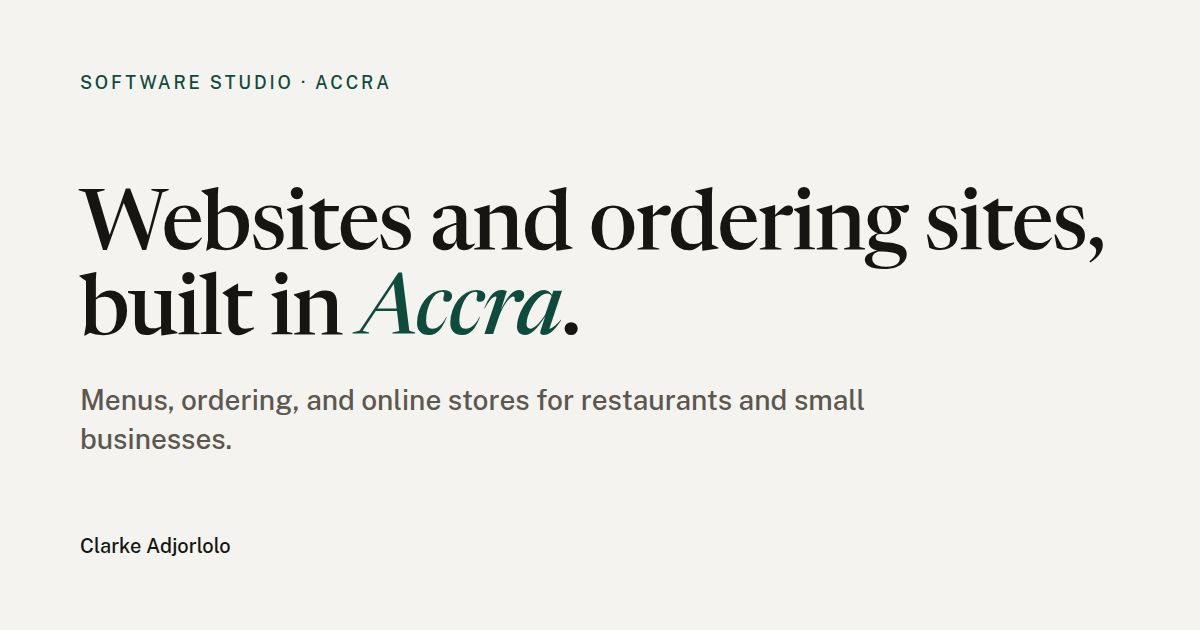
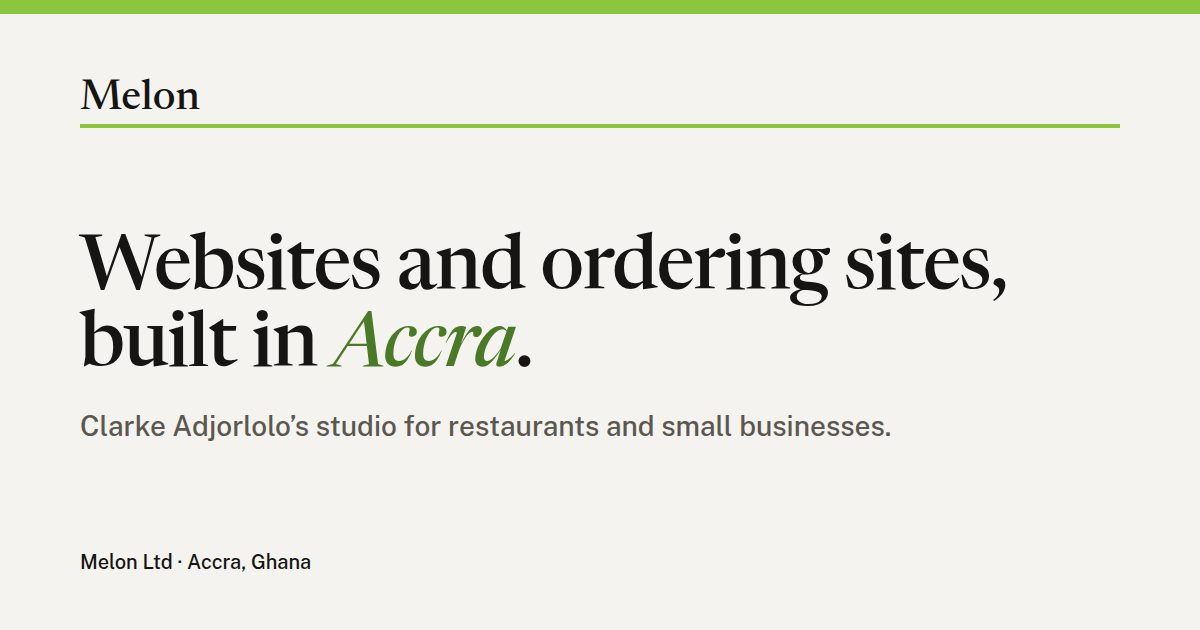
Rename the studio to Melon and use the lime theme.
The brand name stays one field in site.ts. Copyright uses Melon Ltd. Buttons are lime with dark green text, and the deeper green is the hover.

diff --git a/src/components/Layout.tsx b/src/components/Layout.tsx
@@ -33,11 +33,11 @@ function Header() {
   }, [open]);
 
   return (
-    <header className="sticky top-0 z-40 border-b border-line bg-paper/95 backdrop-blur-md">
+    <header className="site-header sticky top-0 z-40 bg-paper/95 backdrop-blur-md">
       <div className="shell flex h-16 items-center justify-between gap-4">
         <Link
           to="/"
-          className="font-serif text-xl tracking-tight text-ink sm:text-2xl"
+          className="font-serif text-xl tracking-tight text-ink underline decoration-lime decoration-2 underline-offset-4 sm:text-2xl"
         >
           {site.name}
         </Link>
@@ -55,7 +55,7 @@ function Header() {
           ))}
           <Link
             to="/#contact"
-            className="inline-flex h-10 items-center bg-pine px-4 text-sm font-medium text-white hover:bg-pine-deep"
+            className="inline-flex h-10 items-center bg-lime px-4 text-sm font-medium text-lime-ink hover:bg-grove hover:text-white"
           >
             Start a project
           </Link>
@@ -94,7 +94,7 @@ function Header() {
             <li className="py-3">
               <Link
                 to="/#contact"
-                className="inline-flex h-12 w-full items-center justify-center bg-pine text-sm font-medium text-white"
+                className="inline-flex h-12 w-full items-center justify-center bg-lime text-sm font-medium text-lime-ink hover:bg-grove hover:text-white"
                 onClick={() => setOpen(false)}
               >
                 Start a project
@@ -151,8 +151,8 @@ function Footer() {
         </div>
       </div>
       <div className="border-t border-white/10">
-        <p className="shell py-5 text-xs text-paper/50">
-          © {new Date().getFullYear()} {site.name}
+        <p className="shell py-5 text-sm text-paper/80">
+          © {new Date().getFullYear()} {site.legalName}, {site.city}
         </p>
       </div>
     </footer>

diff --git a/src/components/Hero.tsx b/src/components/Hero.tsx
@@ -11,12 +11,12 @@ const Hero = () => {
   return (
     <section className="border-b border-line">
       <div className="shell pb-16 pt-16 md:pb-24 md:pt-24">
-        <p className="text-sm font-medium uppercase tracking-[0.16em] text-pine">
+        <p className="text-sm font-medium uppercase tracking-[0.16em] text-grove">
           Software studio
         </p>
         <h1 className="mt-5 max-w-4xl text-balance font-serif text-[2.6rem] leading-[1.05] text-ink sm:text-6xl lg:text-7xl">
           Websites and ordering sites, built in{" "}
-          <em className="italic text-pine">Accra</em>.
+          <em className="italic text-grove">Accra</em>.
         </h1>
         <p className="mt-6 max-w-2xl text-lg leading-relaxed text-stone sm:text-xl">
           {site.name} is the studio of {site.founder}. He builds websites,
@@ -26,7 +26,7 @@ const Hero = () => {
         <div className="mt-8 flex flex-col gap-3 sm:flex-row">
           <Link
             to="/#work"
-            className="inline-flex h-12 items-center justify-center bg-pine px-5 text-sm font-medium text-white hover:bg-pine-deep"
+            className="inline-flex h-12 items-center justify-center bg-lime px-5 text-sm font-medium text-lime-ink hover:bg-grove hover:text-white"
           >
             View the prototypes
           </Link>

diff --git a/src/components/Process.tsx b/src/components/Process.tsx
@@ -30,7 +30,7 @@ const Process = () => {
     <section id="process" className="scroll-mt-20 border-b border-line" aria-labelledby="process-title">
       <div className="shell py-20 md:py-28">
         <div className="max-w-2xl">
-          <p className="text-sm font-medium text-pine">03</p>
+          <p className="text-sm font-medium text-grove">03</p>
           <h2 id="process-title" className="mt-3 font-serif text-4xl text-balance sm:text-5xl">
             How we work
           </h2>
@@ -42,7 +42,7 @@ const Process = () => {
         <ol className="mt-14 grid gap-px border border-line bg-line sm:grid-cols-2 lg:grid-cols-3">
           {steps.map((step, index) => (
             <li key={step.title} className="bg-paper p-6 md:p-8">
-              <p className="font-serif text-3xl text-pine">0{index + 1}</p>
+              <p className="font-serif text-3xl text-grove">0{index + 1}</p>
               <h3 className="mt-4 font-serif text-2xl text-ink">{step.title}</h3>
               <p className="mt-3 text-base leading-relaxed text-stone">{step.body}</p>
             </li>

diff --git a/src/components/Offer.tsx b/src/components/Offer.tsx
@@ -23,7 +23,7 @@ const Offer = () => {
       <div className="shell py-20 md:py-28">
         <div className="grid gap-12 md:grid-cols-12">
           <div className="md:col-span-4">
-            <p className="text-sm font-medium text-pine">02</p>
+            <p className="text-sm font-medium text-grove">02</p>
             <h2 id="offer-title" className="mt-3 font-serif text-4xl text-balance sm:text-5xl">
               What we offer
             </h2>
@@ -36,7 +36,7 @@ const Offer = () => {
             {offers.map((offer, index) => (
               <li key={offer.title} className="border-t border-line py-7 first:border-t-0 first:pt-0">
                 <h3 className="font-serif text-2xl text-ink">
-                  <span className="mr-3 font-sans text-sm font-medium text-pine">
+                  <span className="mr-3 font-sans text-sm font-medium text-grove">
                     0{index + 1}
                   </span>
                   {offer.title}

diff --git a/src/components/Work.tsx b/src/components/Work.tsx
@@ -6,7 +6,7 @@ const Work = () => {
     <section id="work" className="scroll-mt-20 border-b border-line" aria-labelledby="work-title">
       <div className="shell py-20 md:py-28">
         <div className="max-w-2xl">
-          <p className="text-sm font-medium text-pine">01</p>
+          <p className="text-sm font-medium text-grove">01</p>
           <h2 id="work-title" className="mt-3 font-serif text-4xl text-balance sm:text-5xl">
             Work
           </h2>
@@ -37,7 +37,7 @@ const Work = () => {
                     <span aria-hidden="true" className="h-px w-6 bg-line" />
                     <span>{project.kind}</span>
                   </div>
-                  <h3 className="mt-2 font-serif text-3xl text-ink group-hover:text-pine">
+                  <h3 className="mt-2 font-serif text-3xl text-ink group-hover:text-grove">
                     {project.name}
                   </h3>
                 </a>

diff --git a/src/components/Measured.tsx b/src/components/Measured.tsx
@@ -17,7 +17,7 @@ const Measured = () => {
     >
       <div className="shell py-20 md:py-28">
         <div className="max-w-2xl">
-          <p className="text-sm font-medium text-pine">04</p>
+          <p className="text-sm font-medium text-grove">04</p>
           <h2 id="measured-title" className="mt-3 font-serif text-4xl text-balance sm:text-5xl">
             Checked on the live sites
           </h2>
@@ -86,7 +86,7 @@ const Measured = () => {
                 <ul className="mt-3 space-y-2">
                   {project.observed.map((item) => (
                     <li key={item} className="flex gap-3 text-sm leading-relaxed text-stone">
-                      <span aria-hidden="true" className="mt-2 h-1.5 w-1.5 shrink-0 bg-pine" />
+                      <span aria-hidden="true" className="mt-2 h-1.5 w-1.5 shrink-0 bg-lime" />
                       {item}
                     </li>
                   ))}

diff --git a/src/pages/NotFound.tsx b/src/pages/NotFound.tsx
@@ -13,14 +13,14 @@ const NotFound = () => {
   return (
     <Layout>
       <section className="shell py-24">
-        <p className="text-sm font-medium uppercase tracking-[0.16em] text-pine">404</p>
+        <p className="text-sm font-medium uppercase tracking-[0.16em] text-grove">404</p>
         <h1 className="mt-4 font-serif text-5xl">Page not found</h1>
         <p className="mt-4 max-w-md text-base leading-relaxed text-stone">
           No page at {location.pathname}.
         </p>
         <Link
           to="/"
-          className="mt-8 inline-flex h-12 items-center bg-pine px-5 text-sm font-medium text-white hover:bg-pine-deep"
+          className="mt-8 inline-flex h-12 items-center bg-lime px-5 text-sm font-medium text-lime-ink hover:bg-grove hover:text-white"
         >
           Back to the studio
         </Link>

diff --git a/src/content/site.ts b/src/content/site.ts
@@ -2,15 +2,16 @@
  * Studio name and contact placeholders.
  *
  * The company name is the `name` field below. Change that one line.
- * The wordmark, footer, document title, social meta tags, and manifest
- * all read it from here.
+ * The wordmark, footer brand, document title, social meta tags, and manifest
+ * all read it from here. The copyright line uses `legalName`.
  *
  * Replace `whatsappDisplay` and `email` before publishing.
  * They are placeholders, not real contact details.
  */
 
 export const site = {
-  name: "Adjorlolo",
+  name: "Melon",
+  legalName: "Melon Ltd",
   city: "Accra, Ghana",
   founder: "Clarke Adjorlolo",
   role: "Final-year computer engineering student",

diff --git a/index.html b/index.html
@@ -13,7 +13,7 @@
     <link rel="icon" href="/favicon.ico" sizes="32x32" />
     <link rel="apple-touch-icon" href="/icon-192.png" />
     <link rel="manifest" href="/manifest.json" />
-    <meta name="theme-color" content="#f4f3ef" />
+    <meta name="theme-color" content="#8CC63F" />
     <meta name="apple-mobile-web-app-capable" content="yes" />
     <meta name="apple-mobile-web-app-status-bar-style" content="default" />
     <meta name="apple-mobile-web-app-title" content="__STUDIO_NAME__" />

diff --git a/src/components/ContactSection.tsx b/src/components/ContactSection.tsx
@@ -57,7 +57,7 @@ const ContactSection = () => {
       <div className="shell py-20 md:py-28">
         <div className="grid gap-12 md:grid-cols-12">
           <div className="md:col-span-4">
-            <p className="text-sm font-medium text-pine">05</p>
+            <p className="text-sm font-medium text-grove">05</p>
             <h2 id="contact-title" className="mt-3 font-serif text-4xl text-balance sm:text-5xl">
               Contact
             </h2>

diff --git a/src/pages/Contact.tsx b/src/pages/Contact.tsx
@@ -6,7 +6,7 @@ const Contact = () => {
   return (
     <Layout>
       <section className="shell py-16 md:py-24">
-        <p className="text-sm font-medium uppercase tracking-[0.16em] text-pine">Contact</p>
+        <p className="text-sm font-medium uppercase tracking-[0.16em] text-grove">Contact</p>
         <h1 className="mt-4 max-w-2xl font-serif text-4xl text-balance sm:text-6xl">
           Start a project with {site.name}.
         </h1>

diff --git a/src/index.css b/src/index.css
@@ -116,8 +116,8 @@ All colors MUST be HSL.
   }
 
   ::selection {
-    background: #d5ebe3;
-    color: #161513;
+    background: #8cc63f;
+    color: #1b3a0c;
   }
 
   :focus-visible {
@@ -129,6 +129,11 @@ All colors MUST be HSL.
 @layer components {
   .shell {
     @apply mx-auto w-full max-w-6xl px-5 sm:px-6;
+  }
+
+  .site-header {
+    border-top: 4px solid #8cc63f;
+    border-bottom: 1px solid #e2dfd8;
   }
 
   .skip-link {
